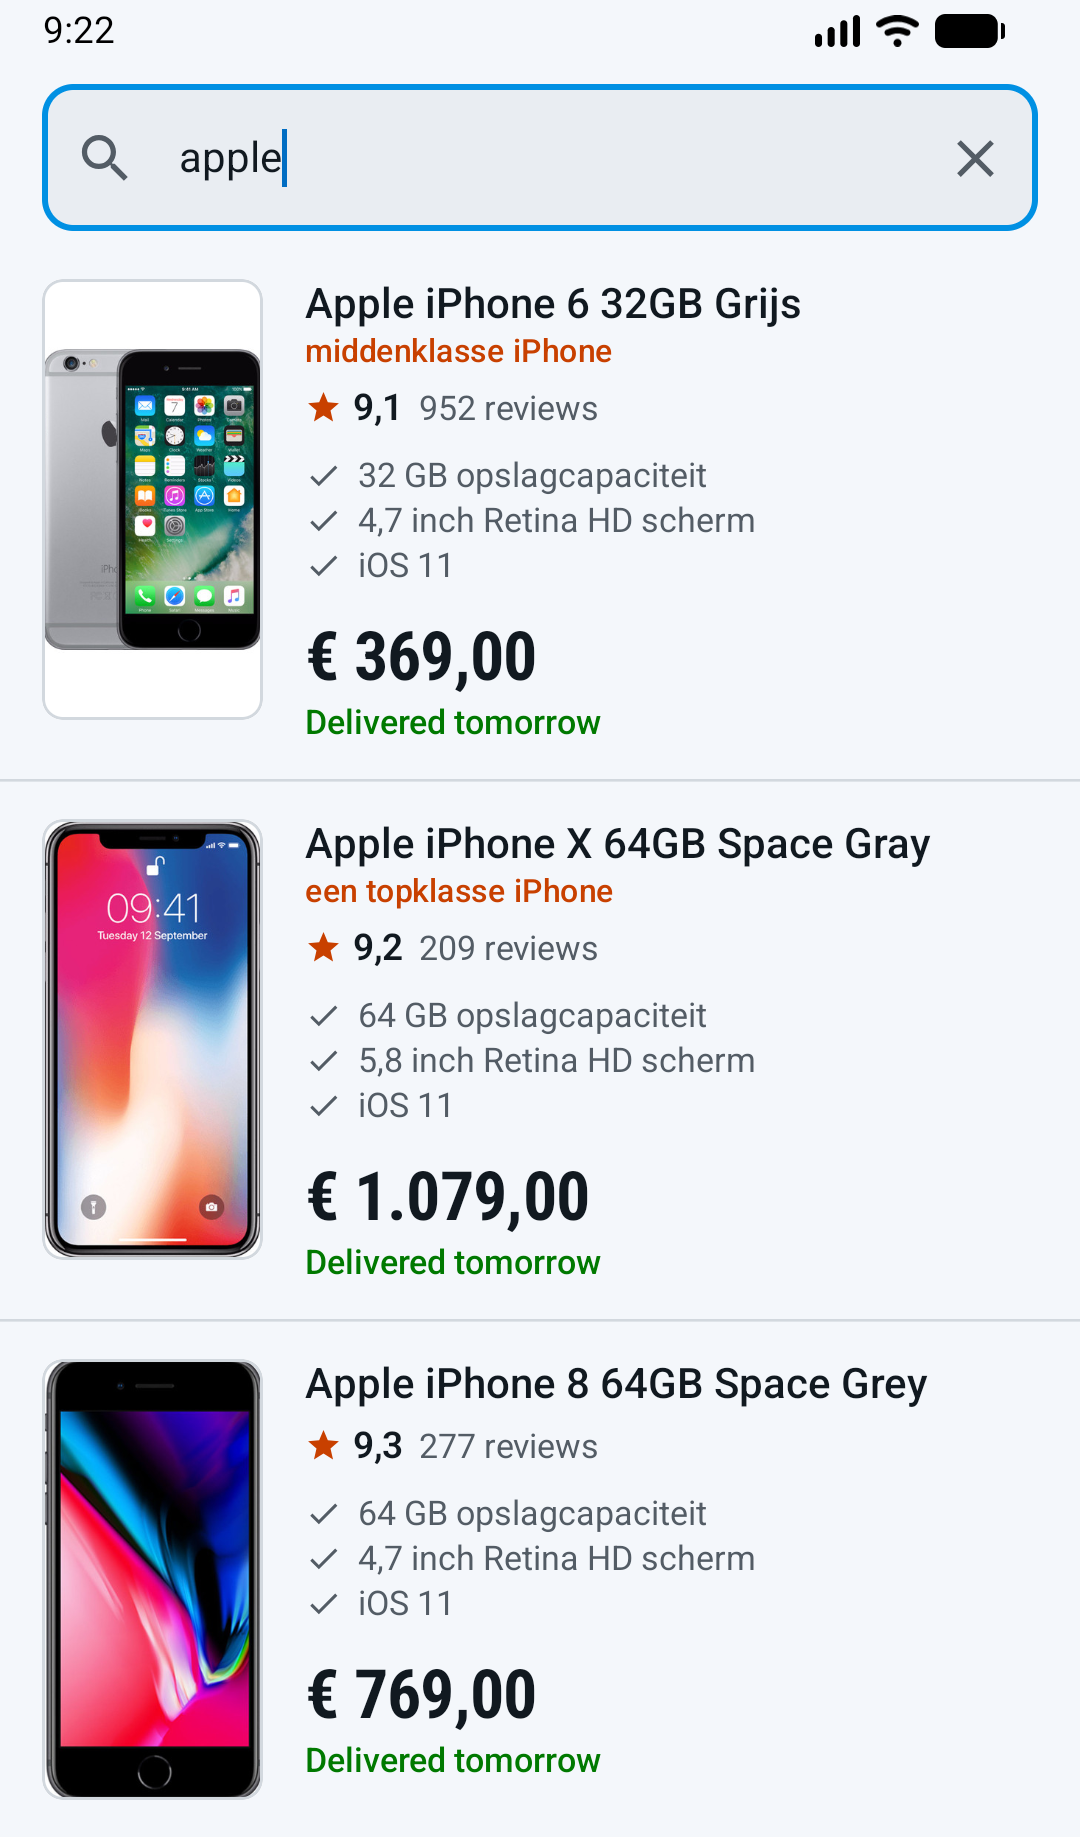
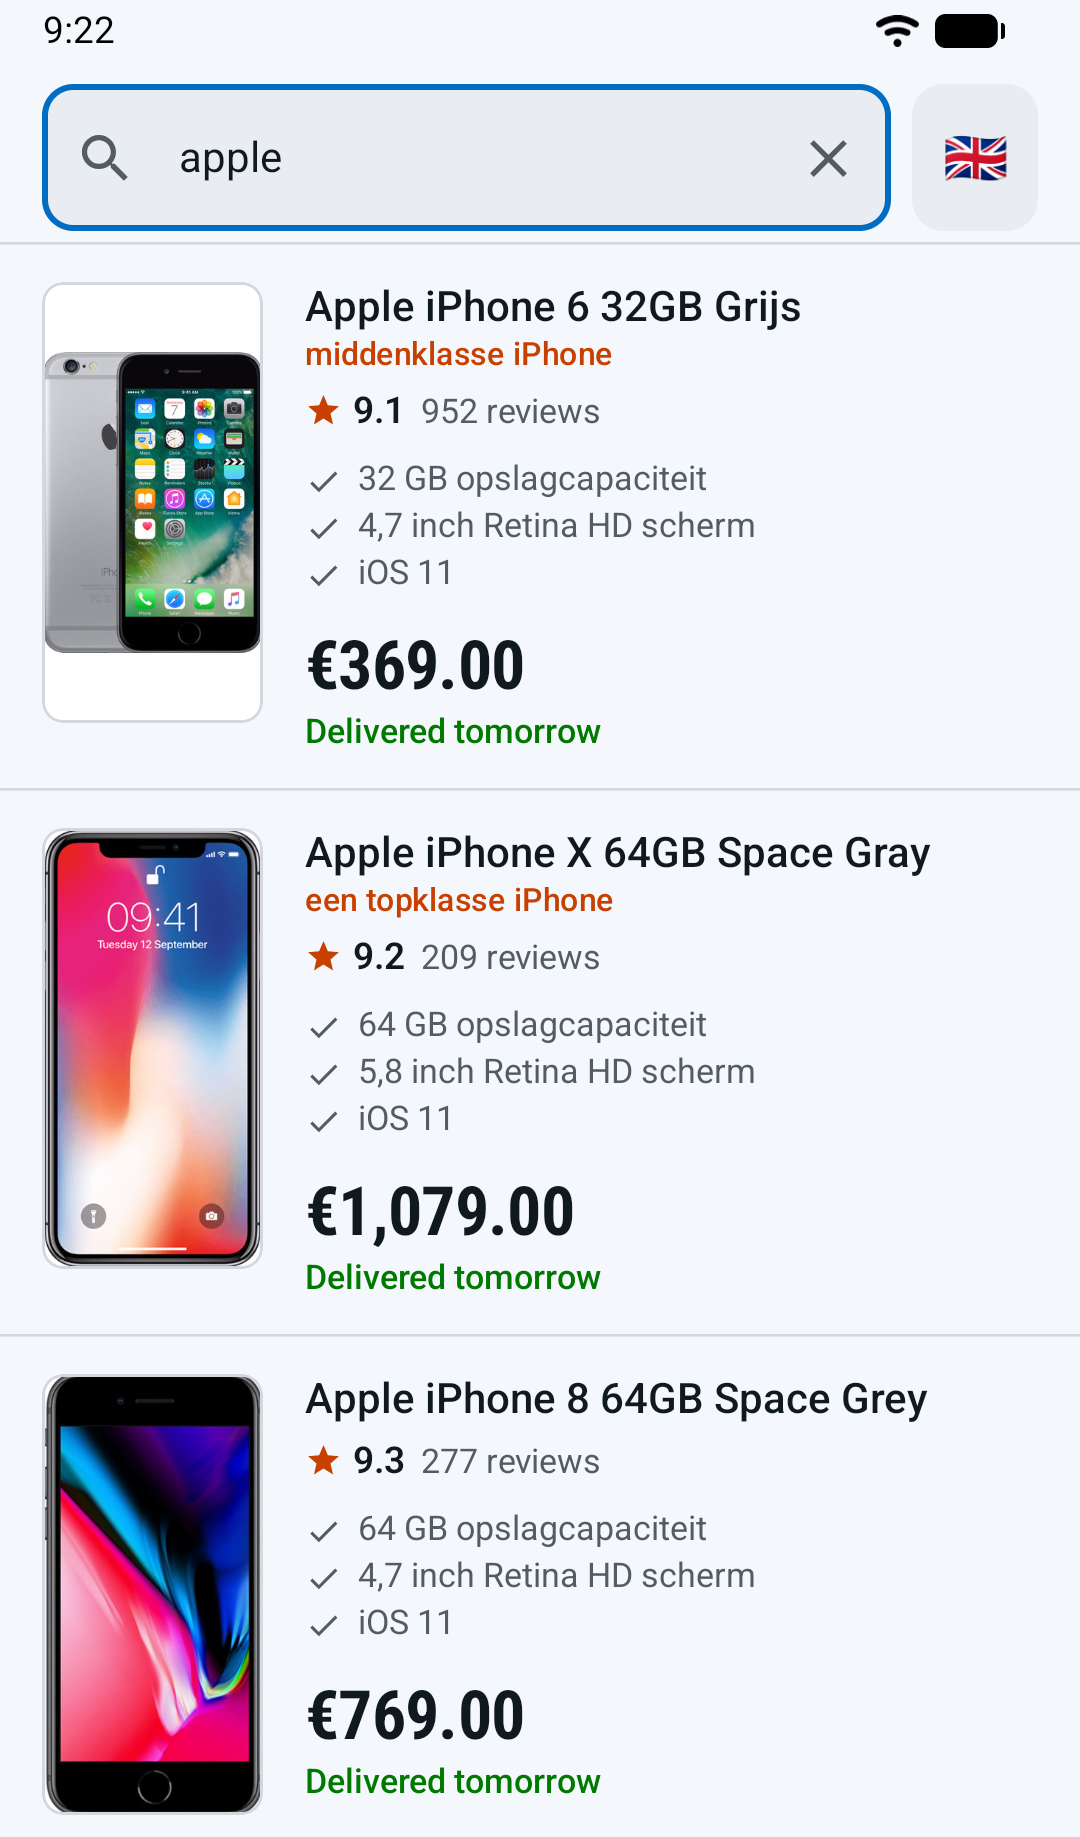
Show the English screen in the README and the infographic
The screenshot and the infographic's phone mockup showed Dutch prices and
ratings next to English words, which the app no longer draws: numbers
follow the language now. The screenshot is retaken in English with the
language flag beside the field, the mockup's numbers read "€369.00" and
"9.1", and the README names the button by its label, Try again.

diff --git a/README.md b/README.md
@@ -43,9 +43,8 @@ to the assignment's mock API; its URL is a constant in `core/network`.
 - Each row shows the product image, name, review score and count, up to three USPs, a promo
   label, the price (with the old price struck through when it is higher than the current one)
   and the next-day delivery promise.
-- Every error offers a way out: a message with Retry under the field when the first page fails,
-  a footer row with Retry when a later page fails, a snackbar with Try again when a refresh fails.
-  The last two keep the rows already on screen.
+- Every error offers Try again: under the field when the first page fails, in a footer row when
+  a later page fails, in a snackbar when a refresh fails. The last two keep the rows on screen.
 - Tapping a row opens the product in a bottom sheet: the full name, every USP, a larger photo.
 - The query survives rotation and process death. After a restore the search runs again by itself.
 
@@ -181,6 +180,6 @@ was reviewed, and the commit history reads as the build sequence.
 - Compose UI tests: the screen is stateless and its logic lives in the tested ViewModel.
 - Release signing: nothing here ships.
 - An offline cache: search-as-you-type results are live by nature, and the API is a mock.
-  A failed load offers Retry; the rows already on screen stay.
+  A failed load offers Try again; the rows already on screen stay.
 - Crash reporting: nothing ships, so there is no backend to report to. The repository logs
   what it turns into `AppError.Unknown`, which is the only failure that carries no other clue.
